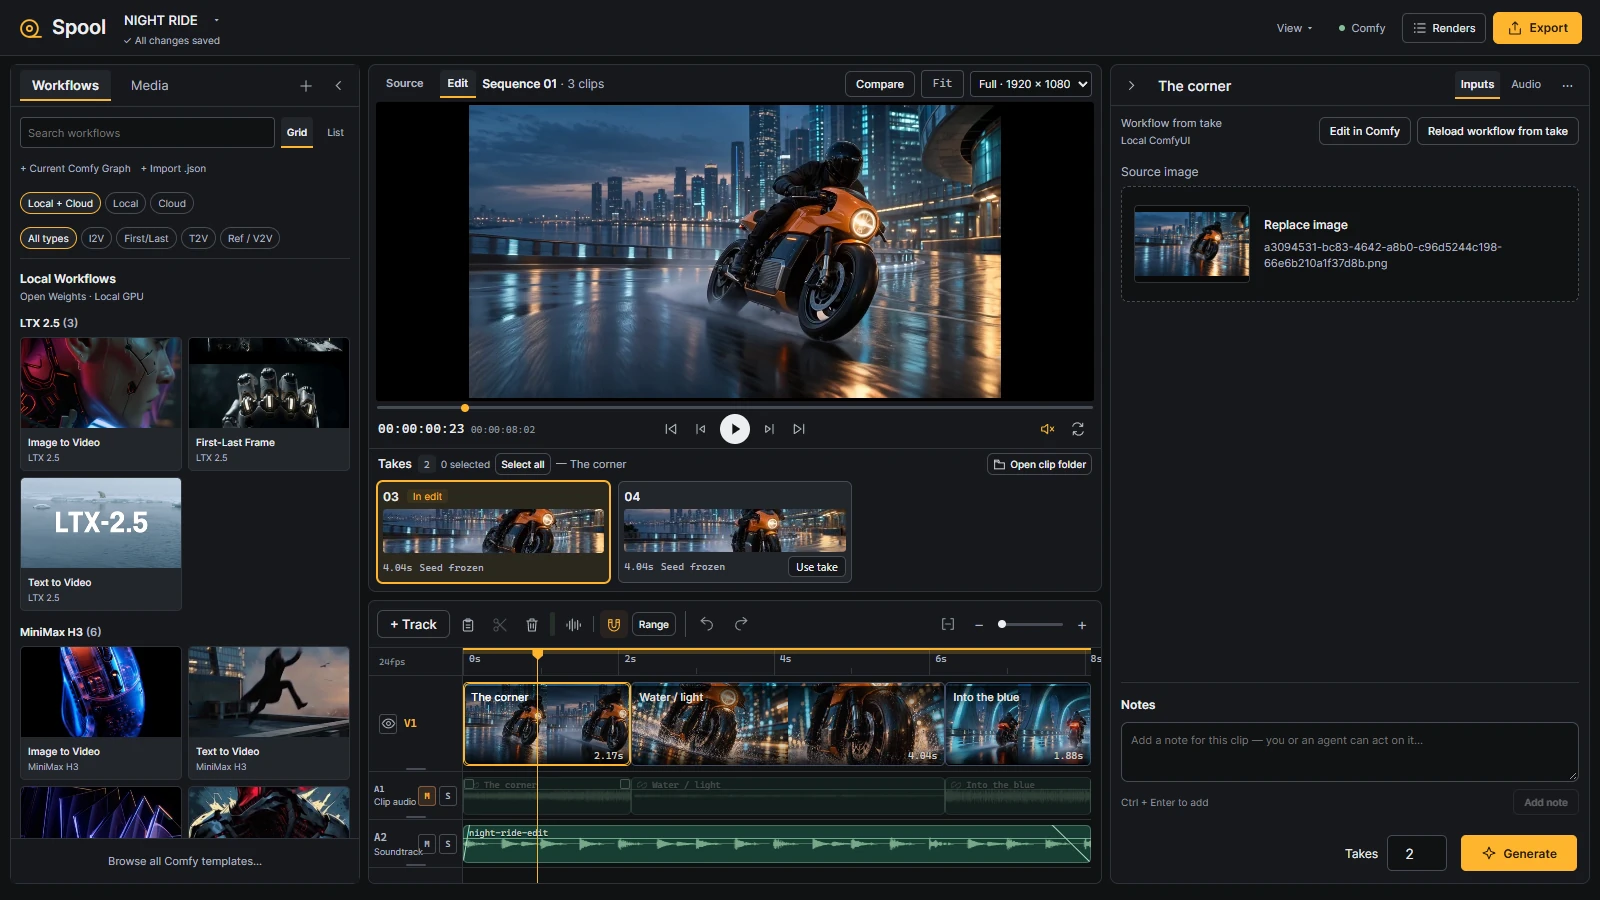
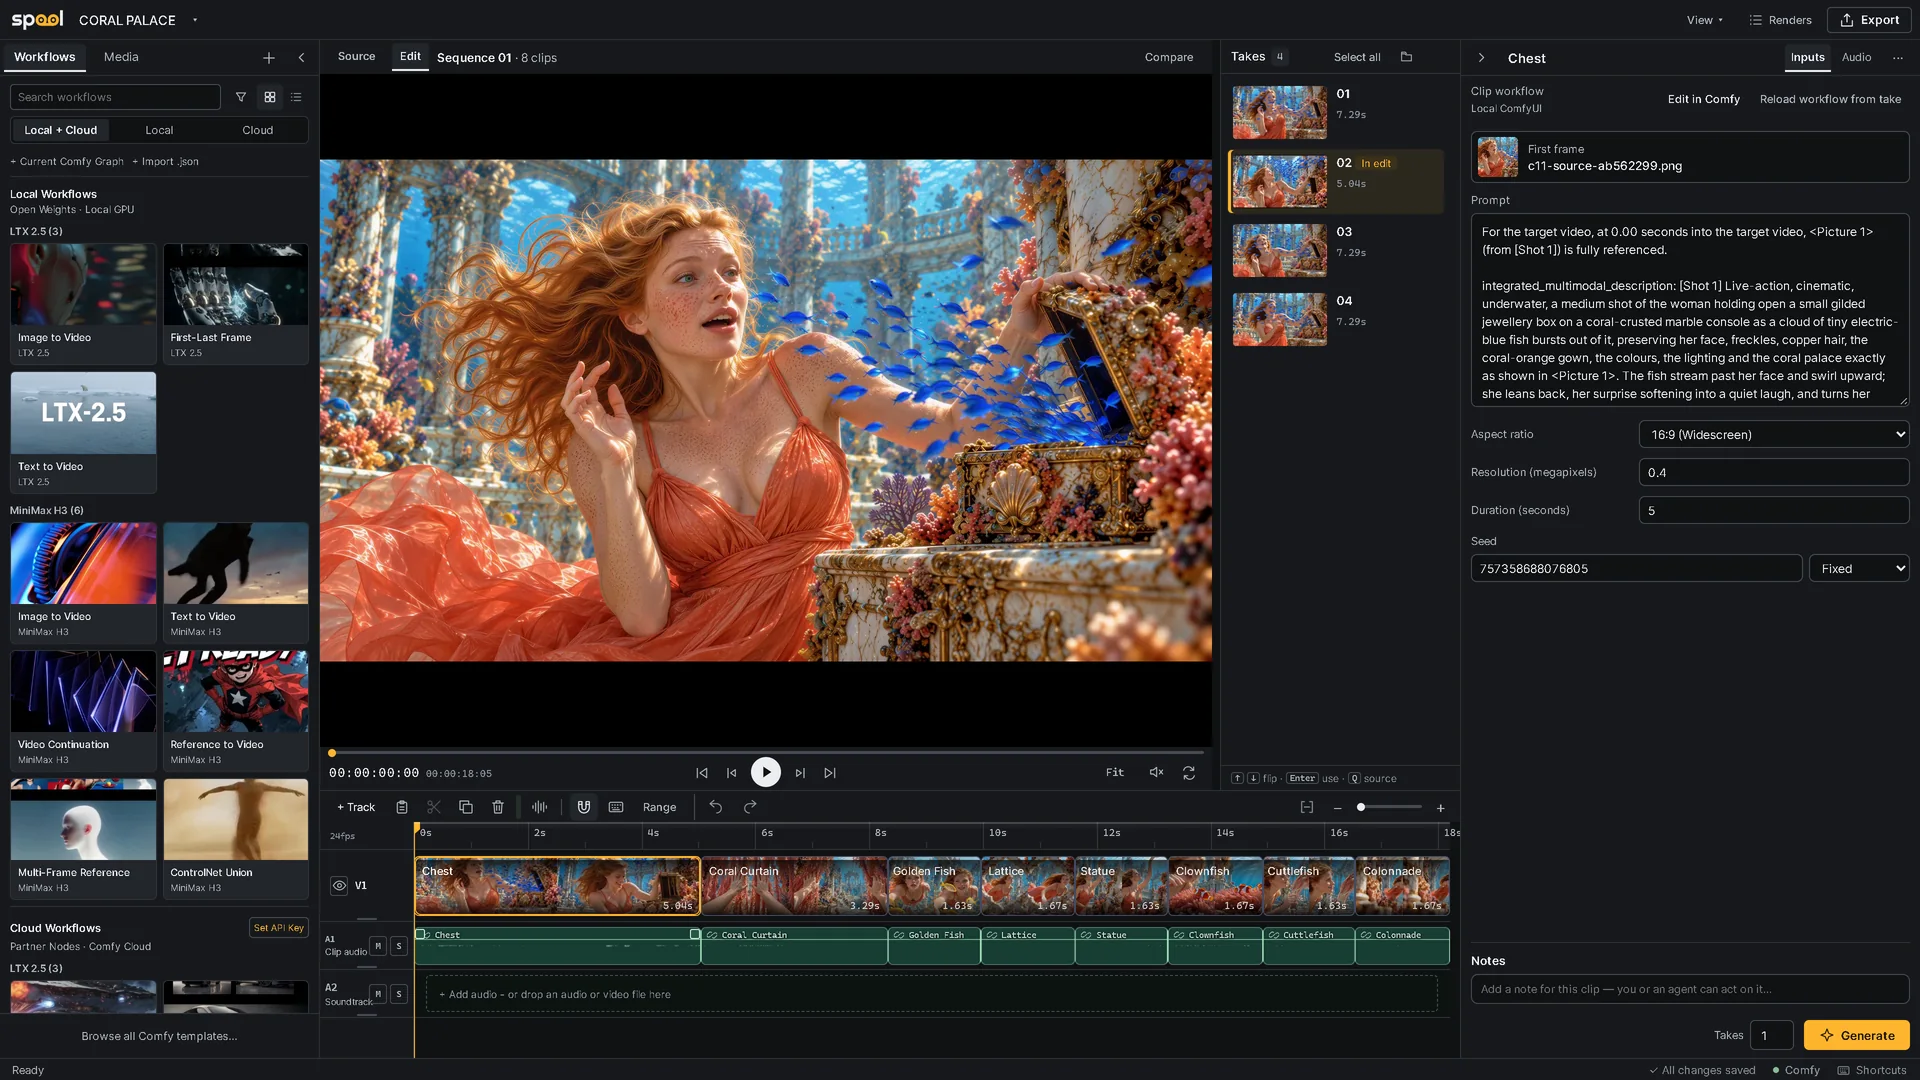
Show the current studio in the README and link the launch film
The studio screenshot is a fresh capture of main with the CORAL PALACE project: the first shot selected with its four takes beside the viewer, the viewer showing the frame that shot was generated from. A Watch the launch film button under the badges links to the film on YouTube.

diff --git a/README.md b/README.md
@@ -14,6 +14,10 @@
   <a href="https://buymeacoffee.com/doubletwisted"><img alt="Buy me a coffee" src="https://img.shields.io/badge/Buy_me_a_coffee-ffb52e?style=flat&logo=buymeacoffee&logoColor=101113"></a>
 </p>
 
+<p align="center">
+  <a href="https://youtu.be/Z5H-dzL2kUU"><img src="docs/images/watch-the-film.webp" alt="Watch the Spool launch film on YouTube" width="360"></a>
+</p>
+
 Spool turns ComfyUI into a place to make a film, not just a shot. Lay out shots
 on a timeline, generate takes for each one with your own workflows, compare
 them, and choose the take that goes in the edit. Takes render on this computer,
@@ -21,7 +25,7 @@ on Comfy Cloud or on a Deadline farm.
 
 Your workflows stay as they are: Spool needs no custom nodes in the graph.
 
-![The Spool studio: a three-shot sequence, with two takes of the selected shot below the viewer and its workflow inputs on the right](docs/images/studio.webp)
+![The Spool studio: an eight-shot sequence on the timeline, the first shot selected with its four takes beside the viewer and its workflow inputs on the right](docs/images/studio.webp)
 
 > [!NOTE]
 > Spool 0.1.0 is an early release, tested on Windows and Apple Silicon macOS.
